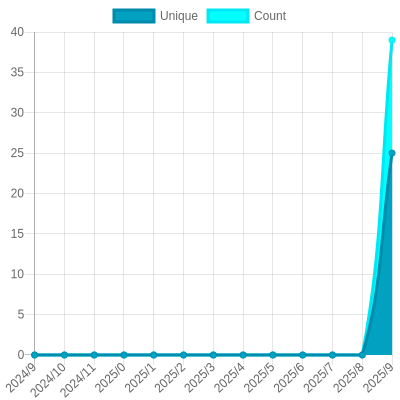
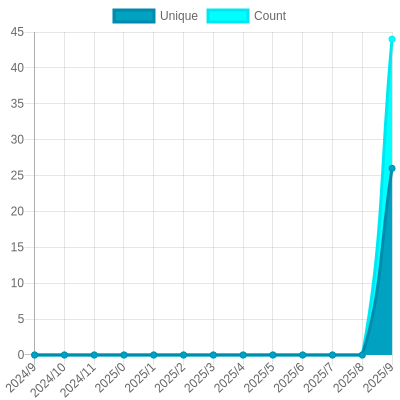
Update views

diff --git a/readme/701468876/year.md b/readme/701468876/year.md
@@ -23,10 +23,10 @@
 			<code>2024/10/1</code>
 		</td>
 		<td>
-			<code>25</code>
+			<code>26</code>
 		</td>
 		<td>
-			<code>39</code>
+			<code>44</code>
 		</td>
 	</tr>
 	<tr>
@@ -164,7 +164,7 @@
 </table>
 
 </details>
-<small><i>Last updated on 2024/10/26 6:14 AM UTC</i></small>
+<small><i>Last updated on 2024/10/26 12:19 PM UTC</i></small>
 
 ## ✂Copy and 📋 Paste
 ### SVG Badge

diff --git a/README.md b/README.md
@@ -85,7 +85,7 @@ The project created and maintained by [gayanvoice](https://github.com/gayanvoice
 	</tr>
 </table>
 
-<small><i>Last updated on 2024/10/26 6:15 AM UTC</i></small>
+<small><i>Last updated on 2024/10/26 12:20 PM UTC</i></small>
 
 ## ✂Copy and 📋 Paste
 ### Total Views Badge

diff --git a/readme/706375790/year.md b/readme/706375790/year.md
@@ -164,7 +164,7 @@
 </table>
 
 </details>
-<small><i>Last updated on 2024/10/26 6:15 AM UTC</i></small>
+<small><i>Last updated on 2024/10/26 12:19 PM UTC</i></small>
 
 ## ✂Copy and 📋 Paste
 ### SVG Badge

diff --git a/readme/870006542/year.md b/readme/870006542/year.md
@@ -164,7 +164,7 @@
 </table>
 
 </details>
-<small><i>Last updated on 2024/10/26 6:14 AM UTC</i></small>
+<small><i>Last updated on 2024/10/26 12:19 PM UTC</i></small>
 
 ## ✂Copy and 📋 Paste
 ### SVG Badge

diff --git a/readme/874411014/year.md b/readme/874411014/year.md
@@ -164,7 +164,7 @@
 </table>
 
 </details>
-<small><i>Last updated on 2024/10/26 6:15 AM UTC</i></small>
+<small><i>Last updated on 2024/10/26 12:20 PM UTC</i></small>
 
 ## ✂Copy and 📋 Paste
 ### SVG Badge
